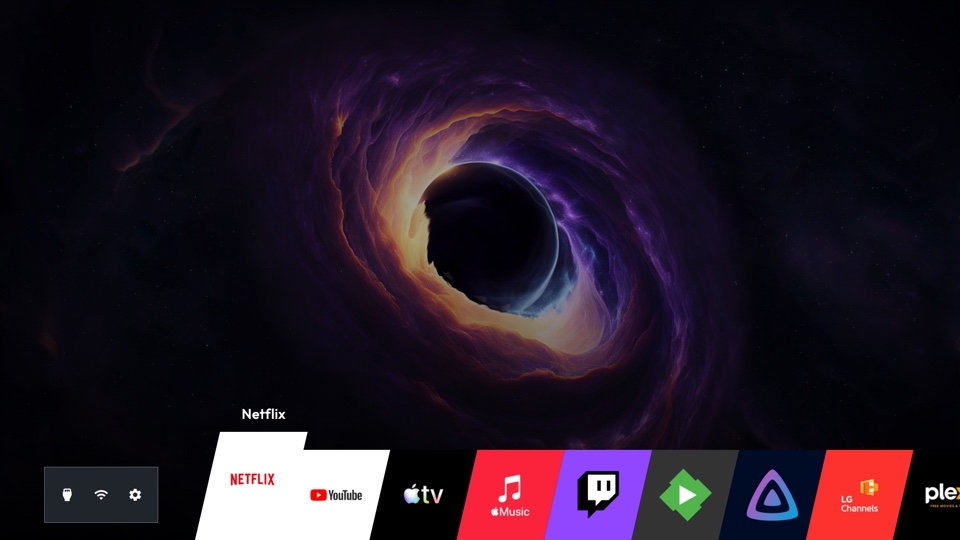
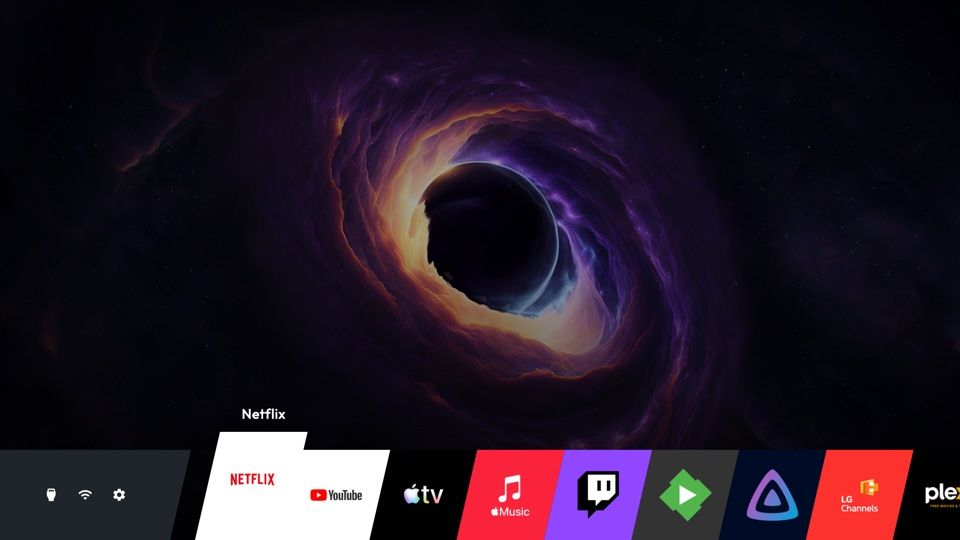
Continue the skewed Ribbon lane and detach the editing card

Changed region(s): [[0.0, 0.8296, 0.2188, 1.0]]

diff --git a/launcher/theme-runtime.js b/launcher/theme-runtime.js
@@ -108,7 +108,7 @@
       ribbonRule('.item', 'height:' + r.cardHeight + 'px;padding-bottom:0;border-radius:0;transform:skewX(' + r.skewDeg + 'deg)!important;transform-origin:center bottom;');
       ribbonRule('.item .card', 'transform:none!important;transition:none;');
       ribbonRule('.item.focused .card', 'height:' + (r.cardHeight + r.focusLift) + 'px!important;top:-' + r.focusLift + 'px;border:3px solid ' + accent + '!important;transform:none!important;');
-      ribbonRule('.item.moving .card', 'animation:none;');
+      ribbonRule('.item.moving .card', 'animation:none;top:-' + (r.focusLift + 32) + 'px;');
       ribbonRule('.item .card img', 'width:' + (r.iconScale * 100) + '%;height:' + (r.cardHeight * r.iconScale) + 'px;left:' + ((1 - r.iconScale) * 50) + '%;top:' + (r.cardHeight * (1 - r.iconScale) / 2) + 'px;');
       ribbonRule('.add-app svg', 'width:' + (64 * r.iconScale) + 'px;height:' + (64 * r.iconScale) + 'px;');
       ribbonRule('.item .ctv-icon', 'transform:skewX(' + (-r.skewDeg) + 'deg)!important;');
@@ -127,10 +127,9 @@
         ribbonRule('#topButtons .pill', 'width:72px;height:72px;padding:0;margin:0 12px 0 0;justify-content:center;font-size:0;');
         ribbonRule('#topButtons .pill svg', 'width:32px;height:32px;margin:0;');
         if (manifest.layout.presentation === 'overlay') {
-          // A compact outlined block stays distinct from the bottom shade and app lane.
-          var shortcutHeight = Math.max(80, r.cardHeight - 68);
-          ribbonRule('#topButtons', 'left:' + (r.left - 252) + 'px;bottom:' + (r.bottom + (r.cardHeight - shortcutHeight) / 2) + 'px;width:228px;height:' + shortcutHeight + 'px;align-items:center;justify-content:center;');
-          ribbonRule('#topButtons::before', 'content:"";position:absolute;left:0;top:0;bottom:0;width:100%;box-sizing:border-box;border:1px solid #737985;background:#20242b;transform:none;pointer-events:none;');
+          // Continue the same skewed lane to the left screen edge.
+          ribbonRule('#topButtons', 'left:0;bottom:' + r.bottom + 'px;width:' + r.left + 'px;height:' + r.cardHeight + 'px;align-items:center;justify-content:center;');
+          ribbonRule('#topButtons::before', 'content:"";position:absolute;left:-64px;top:0;bottom:0;width:' + (r.left + 64) + 'px;box-sizing:border-box;border:0;background:#20242b;transform:skewX(' + r.skewDeg + 'deg);transform-origin:center bottom;pointer-events:none;');
           ribbonRule('#topButtons .pill', 'position:relative;width:60px;height:60px;margin:0 4px;padding:0;background:transparent;border:3px solid transparent;transform:none;');
           ribbonRule('#topButtons .pill.focused', 'background:#303238;border-color:#fff;');
           ribbonRule('#topButtons .pill svg', 'width:30px;height:30px;');

diff --git a/launcher/app.js b/launcher/app.js
@@ -438,16 +438,16 @@
         arrow.className = 'ribbon-edit-arrow ribbon-edit-' + side;
         arrow.setAttribute('aria-hidden', 'true');
         arrow.innerHTML = '<svg viewBox="0 0 24 40" aria-hidden="true"><path d="' + (side === 'left' ? 'M16 4L6 20l10 16' : 'M8 4l10 16L8 36') + '"/></svg>';
-        arrow.style.top = (-ribbon.focusLift - 4) + 'px';
+        arrow.style.top = (-ribbon.focusLift - 36) + 'px';
         arrow.style.webkitTransform = arrow.style.transform = 'skewX(' + (-ribbon.skewDeg) + 'deg)';
         item.el.appendChild(arrow);
       });
     }
     hideButton.style.webkitTransition = hideButton.style.transition = item.el.style.transition;
-    var slant = -(ribbon.cardHeight + ribbon.focusLift) * Math.tan(ribbon.skewDeg * Math.PI / 180);
+    var slant = -(ribbon.cardHeight + ribbon.focusLift + 32) * Math.tan(ribbon.skewDeg * Math.PI / 180);
     hideButton.style.left = (tileLeft(focusedTile) + CARD_WIDTH / 2 + slant) + 'px';
-    hideButton.style.top = (TILE_BASE - ribbon.focusLift - 64) + 'px';
-    editHint.style.top = (TILE_BASE - ribbon.focusLift - 146) + 'px';
+    hideButton.style.top = (TILE_BASE - ribbon.focusLift - 96) + 'px';
+    editHint.style.top = (TILE_BASE - ribbon.focusLift - 178) + 'px';
   }
   function beginMoving(item) {
     clearPressed();
